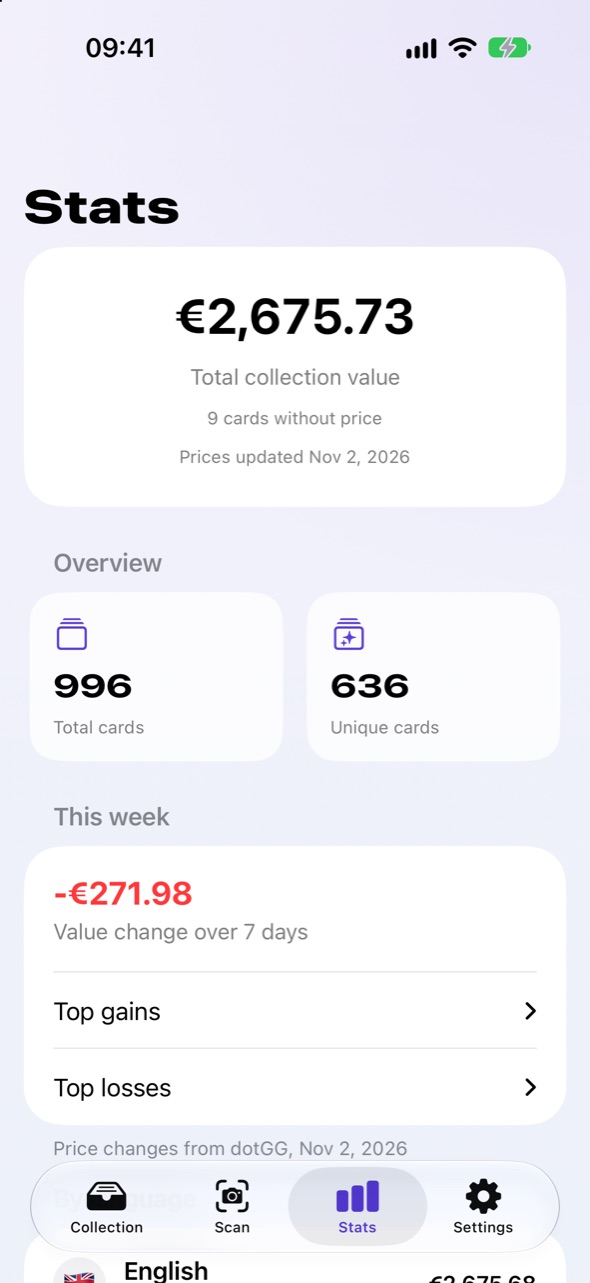
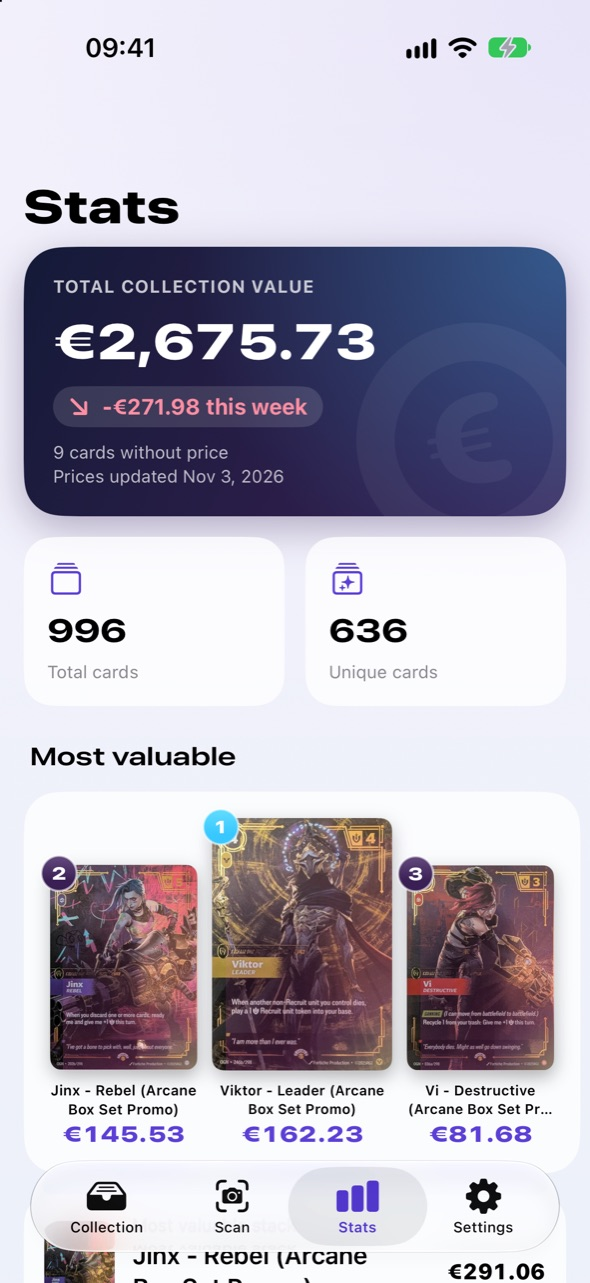
Screenshots of the redesigned Stats and Settings screens

diff --git a/fr/index.html b/fr/index.html
@@ -45,7 +45,7 @@
                     </div>
                     <div class="feature">
                         <h3>Valeur de la collection</h3>
-                        <p>Prix du marché Cardmarket et TCGplayer, valeur totale de votre collection et plus fortes hausses et baisses de la semaine.</p>
+                        <p>Prix du marché Cardmarket et TCGplayer, valeur totale de votre collection, vos cartes les plus chères et plus fortes hausses et baisses de la semaine.</p>
                     </div>
                     <div class="feature">
                         <h3>Scanner sur l'appareil</h3>
@@ -85,12 +85,20 @@
                         <figcaption><strong>Fiche d'une carte</strong>L'illustration s'incline avec le téléphone ; les cartes uniquement foil accrochent la lumière.</figcaption>
                     </figure>
                     <figure>
-                        <img class="phone" src="../images/stats.jpg" alt="Statistiques avec valeur totale et variations de la semaine" loading="lazy">
-                        <figcaption><strong>Statistiques</strong>Valeur totale et variations de prix de la semaine.</figcaption>
+                        <img class="phone" src="../images/stats.jpg" alt="Statistiques avec la valeur totale, l'évolution de la semaine et un podium des trois cartes les plus chères" loading="lazy">
+                        <figcaption><strong>Statistiques</strong>Valeur totale, évolution de la semaine et vos trois cartes les plus chères.</figcaption>
+                    </figure>
+                    <figure>
+                        <img class="phone" src="../images/breakdown.jpg" alt="Valeur par langue et par extension en mode sombre, avec des barres aux couleurs de chaque extension" loading="lazy">
+                        <figcaption><strong>Où est la valeur</strong>Par langue, et par extension ou rareté aux couleurs des extensions.</figcaption>
                     </figure>
                     <figure>
                         <img class="phone" src="../images/share.jpg" alt="Image de progression à partager" loading="lazy">
                         <figcaption><strong>Image de progression</strong>Une image à partager de votre progression.</figcaption>
+                    </figure>
+                    <figure>
+                        <img class="phone" src="../images/settings.jpg" alt="Réglages avec l'en-tête de l'app, le nombre de cartes et l'état de la base" loading="lazy">
+                        <figcaption><strong>Réglages</strong>Langues, prix, état du catalogue et sauvegardes.</figcaption>
                     </figure>
                 </div>
             </div>

diff --git a/index.html b/index.html
@@ -45,7 +45,7 @@
                     </div>
                     <div class="feature">
                         <h3>Collection value</h3>
-                        <p>Market prices from Cardmarket and TCGplayer, the total value of your collection and this week's biggest gains and losses.</p>
+                        <p>Market prices from Cardmarket and TCGplayer, the total value of your collection, your most valuable cards and this week's biggest gains and losses.</p>
                     </div>
                     <div class="feature">
                         <h3>On-device scanner</h3>
@@ -85,12 +85,20 @@
                         <figcaption><strong>Card page</strong>The art tilts with your phone; foil-only cards catch the light.</figcaption>
                     </figure>
                     <figure>
-                        <img class="phone" src="images/stats.jpg" alt="Statistics with total value and weekly price changes" loading="lazy">
-                        <figcaption><strong>Statistics</strong>Total value and this week's price changes on your cards.</figcaption>
+                        <img class="phone" src="images/stats.jpg" alt="Statistics with the total value, this week's change and a podium of the three most valuable cards" loading="lazy">
+                        <figcaption><strong>Statistics</strong>Total value, this week's change and your three most valuable cards.</figcaption>
+                    </figure>
+                    <figure>
+                        <img class="phone" src="images/breakdown.jpg" alt="Value by language and by set in dark mode, with bars in each set's color" loading="lazy">
+                        <figcaption><strong>Where the value is</strong>By language, and by set or rarity in each set's color.</figcaption>
                     </figure>
                     <figure>
                         <img class="phone" src="images/share.jpg" alt="Shareable progress image for a set" loading="lazy">
                         <figcaption><strong>Progress image</strong>A shareable picture of your set completion.</figcaption>
+                    </figure>
+                    <figure>
+                        <img class="phone" src="images/settings.jpg" alt="Settings with the app header, card counts and database status" loading="lazy">
+                        <figcaption><strong>Settings</strong>Languages, prices, catalog status and backups.</figcaption>
                     </figure>
                 </div>
             </div>

diff --git a/style.css b/style.css
@@ -77,9 +77,9 @@ p.section-lead { color: var(--muted); font-size: 18px; margin: 0 0 40px; max-wid
 .feature h3 { margin: 0 0 8px; font-size: 18px; }
 .feature p { margin: 0; color: var(--muted); font-size: 15px; }
 
-.gallery { display: grid; grid-template-columns: repeat(3, 1fr); gap: 28px; }
+.gallery { display: grid; grid-template-columns: repeat(4, 1fr); gap: 24px; }
 .gallery figure { margin: 0; text-align: center; }
-.gallery .phone { max-width: 240px; margin: 0 auto 14px; }
+.gallery .phone { max-width: 220px; margin: 0 auto 14px; }
 .gallery figcaption { font-size: 15px; color: var(--muted); }
 .gallery figcaption strong { display: block; color: var(--ink); font-size: 16px; margin-bottom: 2px; }
 
@@ -103,6 +103,10 @@ footer .links { display: flex; flex-wrap: wrap; gap: 18px; margin-bottom: 18px; 
 .doc h2 { font-size: 22px; margin: 34px 0 10px; }
 .doc p, .doc li { color: var(--muted); }
 .doc-nav { background: linear-gradient(135deg, var(--night), var(--violet)); color: #fff; padding: 18px 0; }
+
+@media (max-width: 1000px) {
+    .gallery { grid-template-columns: repeat(2, 1fr); }
+}
 
 @media (max-width: 860px) {
     .hero-body { grid-template-columns: 1fr; margin-top: 36px; }
